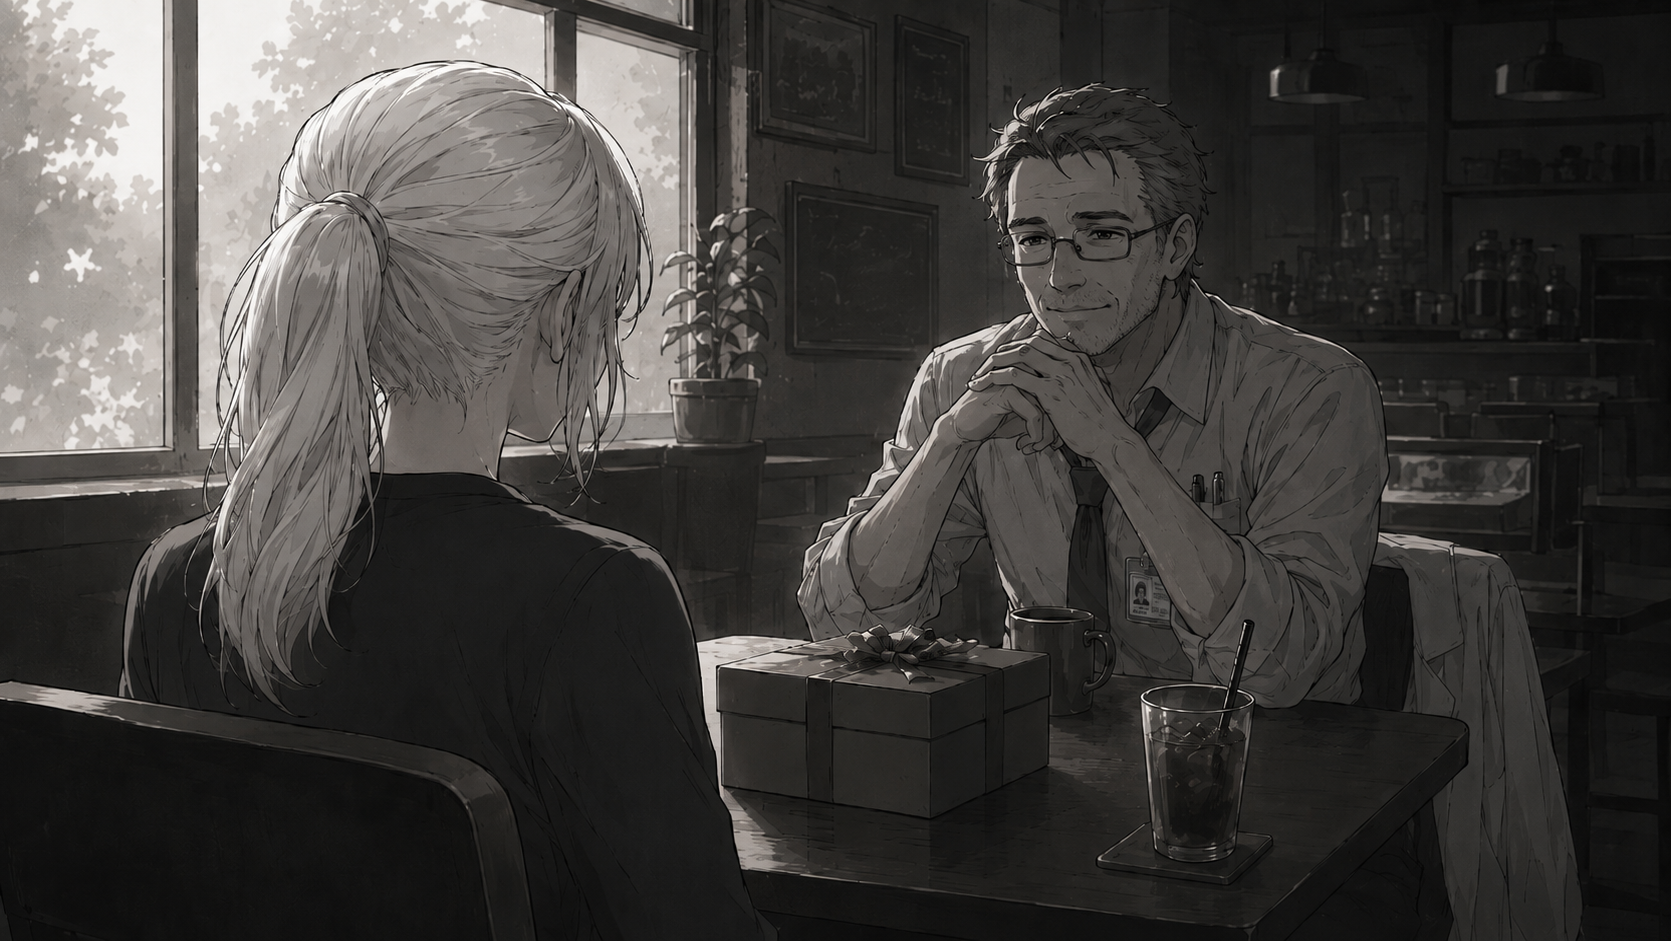
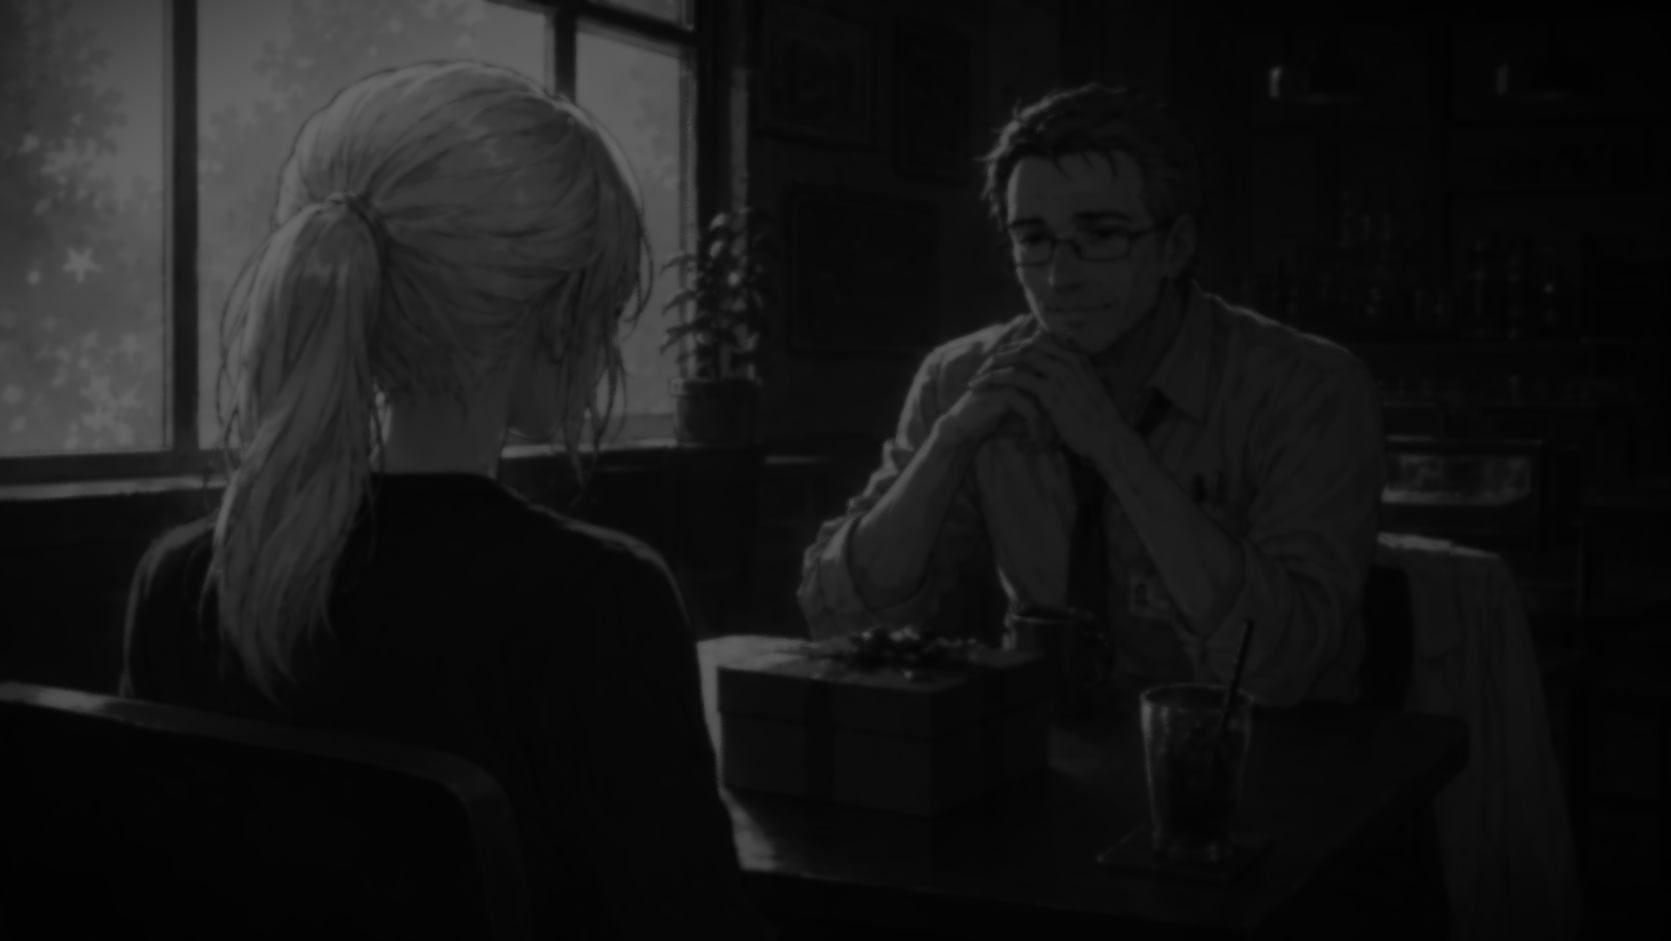
과거 회상 스토리 삽입 완료

diff --git a/Assets/Scripts/Cutscene/CutscenePlayer.cs b/Assets/Scripts/Cutscene/CutscenePlayer.cs
@@ -316,10 +316,16 @@ namespace Week14.Cutscene
 
         private IEnumerator PlayImageFadeIn(Sprite nextSprite, float fadeSeconds)
         {
-            if (backgroundTransitionImage != null && backgroundTransitionImage != backgroundImage)
+            Image transitionImage = EnsureBackgroundTransitionImage();
+            if (transitionImage != null && transitionImage != backgroundImage)
             {
-                SetImage(backgroundTransitionImage, nextSprite, 0f);
-                yield return PlayImageAlpha(backgroundTransitionImage, 0f, 1f, fadeSeconds);
+                if (backgroundImage != null && backgroundImage.sprite != null)
+                {
+                    SetImageAlpha(backgroundImage, 1f);
+                }
+
+                SetImage(transitionImage, nextSprite, 0f);
+                yield return PlayImageAlpha(transitionImage, 0f, 1f, fadeSeconds);
                 SetImage(backgroundImage, nextSprite, 1f);
                 HideTransitionImage();
                 yield break;
@@ -673,6 +679,71 @@ namespace Week14.Cutscene
         private void HideTransitionImage()
         {
             SetImage(backgroundTransitionImage, null, 0f);
+        }
+
+        private Image EnsureBackgroundTransitionImage()
+        {
+            if (backgroundTransitionImage != null && backgroundTransitionImage != backgroundImage)
+            {
+                return backgroundTransitionImage;
+            }
+
+            if (backgroundImage == null || backgroundImage.transform.parent == null)
+            {
+                return backgroundTransitionImage;
+            }
+
+            GameObject transitionObject = new("Background_TransitionImage", typeof(RectTransform), typeof(CanvasRenderer), typeof(Image));
+            transitionObject.layer = backgroundImage.gameObject.layer;
+
+            RectTransform sourceRect = backgroundImage.rectTransform;
+            RectTransform transitionRect = transitionObject.GetComponent<RectTransform>();
+            transitionRect.SetParent(sourceRect.parent, false);
+            CopyRectTransform(sourceRect, transitionRect);
+            transitionRect.SetSiblingIndex(sourceRect.GetSiblingIndex() + 1);
+
+            Image transitionImage = transitionObject.GetComponent<Image>();
+            CopyImageSettings(backgroundImage, transitionImage);
+            transitionImage.raycastTarget = false;
+            backgroundTransitionImage = transitionImage;
+            HideTransitionImage();
+            return backgroundTransitionImage;
+        }
+
+        private static void CopyRectTransform(RectTransform source, RectTransform target)
+        {
+            if (source == null || target == null)
+            {
+                return;
+            }
+
+            target.anchorMin = source.anchorMin;
+            target.anchorMax = source.anchorMax;
+            target.anchoredPosition = source.anchoredPosition;
+            target.sizeDelta = source.sizeDelta;
+            target.pivot = source.pivot;
+            target.localRotation = source.localRotation;
+            target.localScale = source.localScale;
+        }
+
+        private static void CopyImageSettings(Image source, Image target)
+        {
+            if (source == null || target == null)
+            {
+                return;
+            }
+
+            target.material = source.material;
+            target.type = source.type;
+            target.preserveAspect = source.preserveAspect;
+            target.fillCenter = source.fillCenter;
+            target.fillMethod = source.fillMethod;
+            target.fillAmount = source.fillAmount;
+            target.fillClockwise = source.fillClockwise;
+            target.fillOrigin = source.fillOrigin;
+            target.useSpriteMesh = source.useSpriteMesh;
+            target.pixelsPerUnitMultiplier = source.pixelsPerUnitMultiplier;
+            target.maskable = source.maskable;
         }
 
         private void ClearDialogueView()
